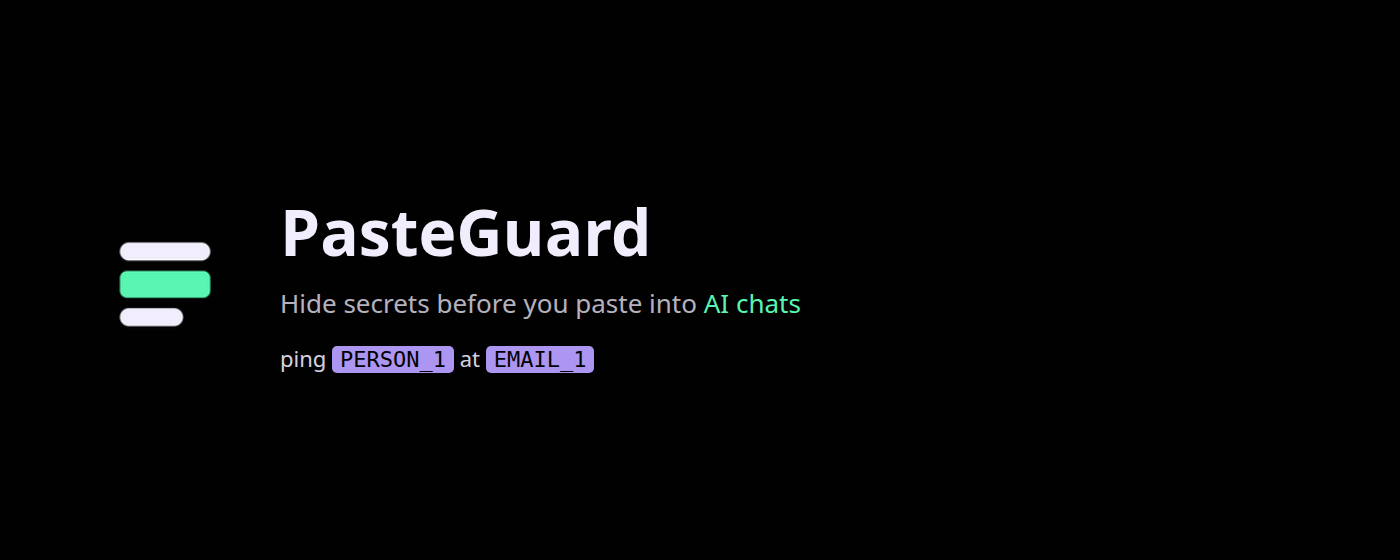
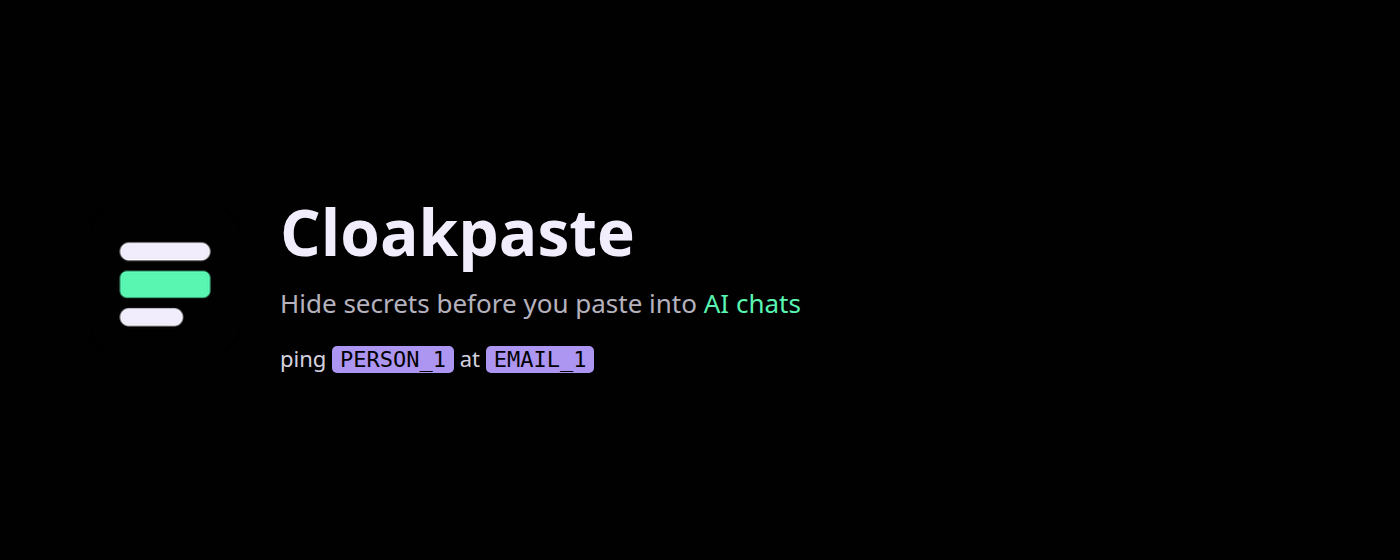
feat!: rename PasteGuard to Cloakpaste
Another Firefox add-on named PasteGuard, by a different developer, does
the same job, so the extension needs a distinct name. Rename everything
users see: the manifest name, popup, settings and toasts, docs, the store
listing and the store images (regenerated). Zips are now cloakpaste-*.zip
and links point to github.com/Dhiva-Labs/Cloakpaste.

Internal identifiers that never reach users keep their names: the gecko
id pasteguard@dhiva-labs (permanent on addons.mozilla.org), pg:* message
types, storage keys, the custom element and the CSS highlight name.

Also add a trademark notice wherever ChatGPT, Claude and Gemini are named,
and keep the store description's keyword counts within the store rules.

Changed region(s): [[0.1843, 0.3643, 0.4607, 0.4857]]

diff --git a/src/options/options.html b/src/options/options.html
@@ -3,7 +3,7 @@
 <head>
   <meta charset="utf-8">
   <meta name="viewport" content="width=device-width, initial-scale=1">
-  <title>PasteGuard settings</title>
+  <title>Cloakpaste settings</title>
   <link rel="stylesheet" href="../ui/theme.css">
   <link rel="stylesheet" href="options.css">
 </head>
@@ -12,20 +12,20 @@
     <header class="row">
       <span class="logo" aria-hidden="true">▮</span>
       <div>
-        <h1>PasteGuard</h1>
+        <h1>Cloakpaste</h1>
         <p class="muted">Hides secrets and personal data before they reach AI chats. Detection runs on this device; nothing is uploaded.</p>
       </div>
     </header>
 
     <section id="welcome" class="card welcome" hidden>
       <h2>You're set up</h2>
-      <p>PasteGuard now checks what you paste into ChatGPT, Claude, Gemini and other AI chats. Emails, keys, card numbers and names are swapped for placeholders like <span class="ph">EMAIL_1</span> before the text lands. When the AI replies with a placeholder, hover it to see the original, or copy the reply to get the originals back.</p>
+      <p>Cloakpaste now checks what you paste into ChatGPT, Claude, Gemini and other AI chats. Emails, keys, card numbers and names are swapped for placeholders like <span class="ph">EMAIL_1</span> before the text lands. When the AI replies with a placeholder, hover it to see the original, or copy the reply to get the originals back.</p>
       <p class="muted">Try it in the playground below.</p>
     </section>
 
     <section class="card">
       <h2>Playground</h2>
-      <p class="muted">Paste or type anything to see what PasteGuard would hide. Playground values use their own vault.</p>
+      <p class="muted">Paste or type anything to see what Cloakpaste would hide. Playground values use their own vault.</p>
       <textarea id="pg-input" rows="7" spellcheck="false">Hi team, please ping John O'Neill (john.oneill@acme.io, +44 20 7946 0958) about the Paris office.
 Priya Raman from Chennai will review it.
 OPENAI_API_KEY=sk-proj-Q8m2N4b7X1c9V3z5K6j0L2p4R7t9W1y3
@@ -76,7 +76,7 @@ Card 4111 1111 1111 1111, Aadhaar 2345 6789 0124, from IP 203.0.113.42</textarea
       <p class="muted small">How placeholders in the AI's replies are handled.</p>
       <label class="row option"><input type="radio" name="restoreMode" value="highlight">
         <span><strong>Highlight, show originals on hover</strong> <span class="tag">recommended</span><br>
-        <span class="muted small">Originals appear only in PasteGuard's own tooltip, never in the page.</span></span></label>
+        <span class="muted small">Originals appear only in Cloakpaste's own tooltip, never in the page.</span></span></label>
       <label class="row option"><input type="radio" name="restoreMode" value="replace">
         <span><strong>Swap originals into the page</strong><br>
         <span class="muted small">Easier to read. The site's own scripts can then read the originals on screen.</span></span></label>
@@ -93,7 +93,7 @@ Card 4111 1111 1111 1111, Aadhaar 2345 6789 0124, from IP 203.0.113.42</textarea
       <h2>Sites</h2>
       <div id="sites" class="sites"></div>
       <div id="custom-sites"></div>
-      <p class="muted small">To protect another site, open it and choose <em>Protect this site</em> in the PasteGuard menu.</p>
+      <p class="muted small">To protect another site, open it and choose <em>Protect this site</em> in the Cloakpaste menu.</p>
     </section>
 
     <p class="muted small saved" id="saved" aria-live="polite"></p>

diff --git a/src/popup/popup.js b/src/popup/popup.js
@@ -34,9 +34,9 @@ async function render() {
   const covered = web && (BUILTIN_SITES.includes(url.hostname) || customSites.includes(url.origin));
   $('site-switch').hidden = !covered;
   $('add-site').hidden = !web || covered;
-  if (!web) $('status').textContent = "PasteGuard only works on web pages.";
+  if (!web) $('status').textContent = "Cloakpaste only works on web pages.";
   else if (!covered) $('status').textContent = 'Not protected. Add it if you use an AI tool here.';
-  else if (!settings.enabled) $('status').textContent = 'PasteGuard is off everywhere.';
+  else if (!settings.enabled) $('status').textContent = 'Cloakpaste is off everywhere.';
   else $('status').textContent = siteEnabled(settings, url.hostname) ? 'Pastes are checked before they land.' : 'Off for this site.';
   $('site').checked = covered && settings.sites[url.hostname] !== false;
 

diff --git a/src/popup/popup.html b/src/popup/popup.html
@@ -2,15 +2,15 @@
 <html lang="en">
 <head>
   <meta charset="utf-8">
-  <title>PasteGuard</title>
+  <title>Cloakpaste</title>
   <link rel="stylesheet" href="../ui/theme.css">
   <link rel="stylesheet" href="popup.css">
 </head>
 <body>
   <header class="row spread">
-    <div class="row brand"><span class="logo" aria-hidden="true">▮</span><h1>PasteGuard</h1></div>
-    <label class="switch" title="Turn PasteGuard on or off everywhere">
-      <input type="checkbox" id="global" aria-label="PasteGuard on">
+    <div class="row brand"><span class="logo" aria-hidden="true">▮</span><h1>Cloakpaste</h1></div>
+    <label class="switch" title="Turn Cloakpaste on or off everywhere">
+      <input type="checkbox" id="global" aria-label="Cloakpaste on">
       <span></span>
     </label>
   </header>

diff --git a/src/content/content.js b/src/content/content.js
@@ -122,8 +122,8 @@ import {
       ui.toast({
         title: 'Paste held back',
         detail: /context invalidated/i.test(res?.error || '')
-          ? 'PasteGuard was updated. Reload this page to keep protecting pastes.'
-          : "PasteGuard couldn't check this text.",
+          ? 'Cloakpaste was updated. Reload this page to keep protecting pastes.'
+          : "Cloakpaste couldn't check this text.",
         actions: [{ label: 'Paste anyway', onClick: () => (restoreSelection(target, snap), insertText(target, text, html, dispatchTo)) }],
       });
       return;

diff --git a/src/content/restore.js b/src/content/restore.js
@@ -2,7 +2,7 @@
 //
 // Default ("highlight") never writes originals into the page: placeholders
 // are marked with the CSS Custom Highlight API (no DOM changes, so React and
-// ProseMirror are unaffected) and the original appears in PasteGuard's own
+// ProseMirror are unaffected) and the original appears in Cloakpaste's own
 // closed-shadow tooltip on hover. "replace" mode swaps the text in place,
 // which is friendlier to read but lets the site's scripts see the originals.
 

diff --git a/src/ner/decode.js b/src/ner/decode.js
@@ -4,7 +4,7 @@
 // align WordPiece tokens back onto the original text ourselves, then group
 // BIO labels into entities and clean them up.
 
-// Model label -> PasteGuard type. Labels not listed are ignored (DATE_TIME,
+// Model label -> Cloakpaste type. Labels not listed are ignored (DATE_TIME,
 // AGE, TITLE, NRP and friends are too common to hide by default).
 export const LABEL_MAP = {
   PERSON: 'PERSON',

diff --git a/tests/e2e/fixtures/index.html b/tests/e2e/fixtures/index.html
@@ -1,7 +1,7 @@
 <!doctype html>
 <meta charset="utf-8">
 <link rel="icon" href="data:,">
-<title>PasteGuard e2e</title>
+<title>Cloakpaste e2e</title>
 <style>
   body { font: 15px/1.5 system-ui; margin: 20px; display: grid; gap: 14px; max-width: 700px; }
   textarea, #ce, #pm { width: 100%; min-height: 60px; border: 1px solid #aaa; padding: 6px; font: inherit; }

diff --git a/src/core/types.js b/src/core/types.js
@@ -1,4 +1,4 @@
-// Every kind of item PasteGuard can hide. `prefix` is what appears in the
+// Every kind of item Cloakpaste can hide. `prefix` is what appears in the
 // placeholder ([EMAIL_1]); `priority` decides which span wins when two
 // detectors claim overlapping text (higher wins).
 

diff --git a/src/core/settings.js b/src/core/settings.js
@@ -1,6 +1,6 @@
 import { TYPES } from './types.js';
 
-// Sites PasteGuard protects out of the box. Users can add more from the popup.
+// Sites Cloakpaste protects out of the box. Users can add more from the popup.
 export const BUILTIN_SITES = [
   'chatgpt.com',
   'chat.openai.com',

diff --git a/src/offscreen/offscreen.html b/src/offscreen/offscreen.html
@@ -1,4 +1,4 @@
 <!doctype html>
 <meta charset="utf-8">
-<title>PasteGuard model host</title>
+<title>Cloakpaste model host</title>
 <script type="module" src="offscreen.js"></script>

diff --git a/scripts/make-icons.py b/scripts/make-icons.py
@@ -1,4 +1,4 @@
-"""Draws the PasteGuard icon: a black tile, pale text lines and a mint redaction bar."""
+"""Draws the Cloakpaste icon: a black tile, pale text lines and a mint redaction bar."""
 from PIL import Image, ImageDraw
 
 TILE, BAR, LINE = (0x01, 0x01, 0x02, 255), (0x58, 0xF6, 0xB1, 255), (0xF1, 0xED, 0xFD, 255)

diff --git a/docs/STORE_LISTING.md b/docs/STORE_LISTING.md
@@ -1,12 +1,12 @@
 # Chrome Web Store listing
 
-Upload `dist/pasteguard-<version>.zip` (built by `npm run package`).
+Upload `dist/cloakpaste-<version>.zip` (built by `npm run package`).
 Images are in `store-assets/` (rendered by `node scripts/store-shots.mjs`
 after `npm run build:test`).
 
 ## Store listing
 
-**Name:** PasteGuard
+**Name:** Cloakpaste
 
 **Summary** (132 characters max):
 Hides emails, keys, card numbers and names before you paste into AI chats. Runs fully on your device.
@@ -20,12 +20,14 @@ Hides emails, keys, card numbers and names before you paste into AI chats. Runs 
 > without substantial added value" and any keyword repeated more than 5
 > times. DL Image Tools was rejected for a brand list. Keep the description
 > to a few named examples, point to the settings page or README for the
-> full site list, and use "PasteGuard" no more than 4 times.
+> full site list, and use "Cloakpaste" no more than 4 times (the trademark
+> line and the source link count). "AI" is already at 5, and ChatGPT, Claude
+> and Gemini at 2 each with the trademark line.
 
 ```
-PasteGuard keeps private data out of AI chats.
+Cloakpaste keeps private data out of AI chats.
 
-Paste a stack trace, an email thread or a config file into an AI chat, and PasteGuard swaps the sensitive parts for placeholders before the text lands in the message box:
+Paste a stack trace, an email thread or a config file into an AI chat, and Cloakpaste swaps the sensitive parts for placeholders before the text lands in the message box:
 
   Hi Priya Raman, reach me at arjun@northwind.dev
   becomes
@@ -57,9 +59,11 @@ IN YOUR CONTROL
 WHERE IT WORKS
 Popular AI chat sites such as ChatGPT, Claude and Gemini are protected out of the box; the full list is on the settings page. To cover any other site, such as a self-hosted chat UI, open it and choose "Protect this site".
 
-Only pasted text is checked. Text you type yourself and files you upload are not. PasteGuard reduces accidental leaks; no detector catches everything.
+Only pasted text is checked. Text you type yourself and files you upload are not. The extension reduces accidental leaks; no detector catches everything.
 
-Source code: https://github.com/Dhiva-Labs/PasteGuard
+ChatGPT, Claude and Gemini are trademarks of their respective owners. Cloakpaste is not affiliated with or endorsed by them.
+
+Source code: https://github.com/Dhiva-Labs/Cloakpaste
 ```
 
 **Images**
@@ -68,8 +72,8 @@ Source code: https://github.com/Dhiva-Labs/PasteGuard
 - Small promo tile (440×280): `store-assets/promo-small-440x280.png`
 - Marquee (1400×560): `store-assets/promo-marquee-1400x560.png`
 
-**Website:** https://github.com/Dhiva-Labs/PasteGuard
-**Support:** https://github.com/Dhiva-Labs/PasteGuard/issues
+**Website:** https://github.com/Dhiva-Labs/Cloakpaste
+**Support:** https://github.com/Dhiva-Labs/Cloakpaste/issues
 
 ## Privacy practices tab
 
@@ -85,14 +89,14 @@ Hide sensitive data in text pasted into AI chat websites by replacing it with pl
 
 **Remote code:** No. All JavaScript, WebAssembly and model weights are in the package. `wasm-unsafe-eval` in the CSP is required to compile the bundled WebAssembly.
 
-**Data usage:** PasteGuard reads pasted text on the device to redact it. Nothing is transmitted. The categories it handles locally are personally identifiable information (names, emails, phone numbers, ID numbers, addresses), authentication information (passwords, API keys, tokens), financial and payment information (card numbers, IBANs) and website content (the pasted text).
+**Data usage:** Cloakpaste reads pasted text on the device to redact it. Nothing is transmitted. The categories it handles locally are personally identifiable information (names, emails, phone numbers, ID numbers, addresses), authentication information (passwords, API keys, tokens), financial and payment information (card numbers, IBANs) and website content (the pasted text).
 
 Certify all three:
 - Not sold or transferred to third parties, outside approved use cases
 - Not used or transferred for purposes unrelated to the item's single purpose
 - Not used or transferred to determine creditworthiness or for lending
 
-**Privacy policy URL:** https://github.com/Dhiva-Labs/PasteGuard/blob/main/PRIVACY.md
+**Privacy policy URL:** https://github.com/Dhiva-Labs/Cloakpaste/blob/main/PRIVACY.md
 
 ## Distribution
 
